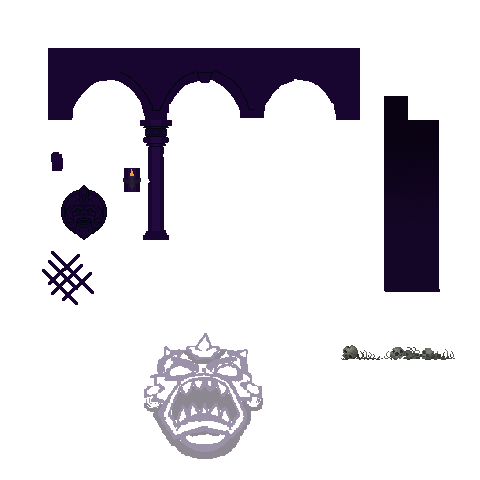
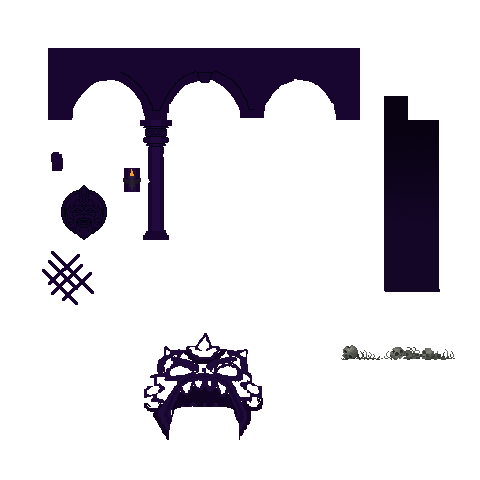
fixed a few things about the waterfall

Changed region(s): [[0.2812, 0.6875, 0.5625, 0.9688]]

diff --git a/src/game/shaderlayer.cpp b/src/game/shaderlayer.cpp
@@ -1,5 +1,6 @@
 #include "shaderlayer.h"
 
+#include "camerapane.h"
 #include "framework/tools/globalclock.h"
 #include "framework/tmxparser/tmxobject.h"
 #include "framework/tmxparser/tmxproperties.h"
@@ -11,16 +12,22 @@
 
 void ShaderLayer::draw(sf::RenderTarget& target)
 {
-   float x = mPosition.x;
-   float y = mPosition.y;
-   float w = mSize.x;
-   float h = mSize.y;
-   const auto offset = target.mapCoordsToPixel(mPosition, target.getView());
+   const auto look_vector = CameraPane::getInstance().getLookVector();
 
-   mShader.setUniform("u_texture", *mTexture.get());
-   mShader.setUniform("u_time", GlobalClock::getInstance()->getElapsedTimeInS());
-   mShader.setUniform("u_resolution", sf::Vector2f(w, h));
-   mShader.setUniform("u_offset", sf::Vector2f(offset.x, offset.y));
+   float x = _position.x;
+   float y = _position.y;
+   float w = _size.x;
+   float h = _size.y;
+
+   // not really sure why the look vector y coordinate inside the camera view is not
+   // part of the target view in the first place. workaround: '2 * look_vector.y'
+   const auto offset_fix = 2 * look_vector.y;
+   const auto position_offset = target.mapCoordsToPixel(sf::Vector2f(x, y + offset_fix), target.getView());
+
+   _shader.setUniform("u_texture", *_texture.get());
+   _shader.setUniform("u_time", GlobalClock::getInstance()->getElapsedTimeInS());
+   _shader.setUniform("u_resolution", sf::Vector2f(w, h));
+   _shader.setUniform("u_offset", sf::Vector2f(static_cast<float>(position_offset.x), static_cast<float>(position_offset.y)));
 
    sf::Vertex quad[] = {
       sf::Vertex(sf::Vector2f(x,     y    )),
@@ -30,8 +37,8 @@ void ShaderLayer::draw(sf::RenderTarget& target)
    };
 
    sf::RenderStates states;
-   states.shader = &mShader;
-
+   states.shader = &_shader;
+   states.blendMode = sf::BlendAlpha;
 
    target.draw(quad, 4, sf::Quads, states);
 }
@@ -41,38 +48,38 @@ std::shared_ptr<ShaderLayer> ShaderLayer::deserialize(TmxObject* object)
 {
    std::shared_ptr<ShaderLayer> instance = std::make_shared<ShaderLayer>();
 
-   instance->mPosition.x = object->mX;
-   instance->mPosition.y = object->mY;
-   instance->mSize.x = object->mWidth;
-   instance->mSize.y = object->mHeight;
+   instance->_position.x = object->mX;
+   instance->_position.y = object->mY;
+   instance->_size.x = object->mWidth;
+   instance->_size.y = object->mHeight;
 
    if (object->mProperties != nullptr)
    {
       auto z = object->mProperties->mMap.find("z");
       if (z != object->mProperties->mMap.end())
       {
-         instance->mZ = z->second->mValueInt.value();
+         instance->_z = z->second->mValueInt.value();
       }
 
       // shader
       auto vertex_shader_it = object->mProperties->mMap.find("vertex_shader");
       if (vertex_shader_it != object->mProperties->mMap.end())
       {
-         instance->mShader.loadFromFile(vertex_shader_it->second->mValueStr.value(), sf::Shader::Vertex);
+         instance->_shader.loadFromFile(vertex_shader_it->second->mValueStr.value(), sf::Shader::Vertex);
       }
 
       auto fragment_shader_it = object->mProperties->mMap.find("fragment_shader");
       if (fragment_shader_it != object->mProperties->mMap.end())
       {
-         instance->mShader.loadFromFile(fragment_shader_it->second->mValueStr.value(), sf::Shader::Fragment);
+         instance->_shader.loadFromFile(fragment_shader_it->second->mValueStr.value(), sf::Shader::Fragment);
       }
 
       // texture uniform
       auto texture_id = object->mProperties->mMap.find("texture");
       if (texture_id != object->mProperties->mMap.end())
       {
-         instance->mTexture = TexturePool::getInstance().get(texture_id->second->mValueStr.value());
-         instance->mTexture->setRepeated(true);
+         instance->_texture = TexturePool::getInstance().get(texture_id->second->mValueStr.value());
+         instance->_texture->setRepeated(true);
       }
    }
 

diff --git a/src/game/shaderlayer.h b/src/game/shaderlayer.h
@@ -9,13 +9,12 @@ struct ShaderLayer
 {
    void draw(sf::RenderTarget& target);
 
-   mutable sf::Shader mShader;
-   sf::Sprite mSprite;
-   sf::Vector2f mPosition;
-   sf::Vector2f mSize;
-   std::shared_ptr<sf::Texture> mTexture;
-
-   int32_t mZ = 0;
+   sf::Shader _shader;
+   sf::Sprite _sprite;
+   sf::Vector2f _position;
+   sf::Vector2f _size;
+   std::shared_ptr<sf::Texture> _texture;
+   int32_t _z = 0;
 
    static std::shared_ptr<ShaderLayer> deserialize(TmxObject* element);
 };

diff --git a/src/game/level.cpp b/src/game/level.cpp
@@ -1029,9 +1029,8 @@ void Level::drawLayers(
 
       for (auto& layer : mShaderLayers)
       {
-         if (layer->mZ == z)
+         if (layer->_z == z)
          {
-            // target.draw(*layer, {});
             layer->draw(target);
          }
       }
